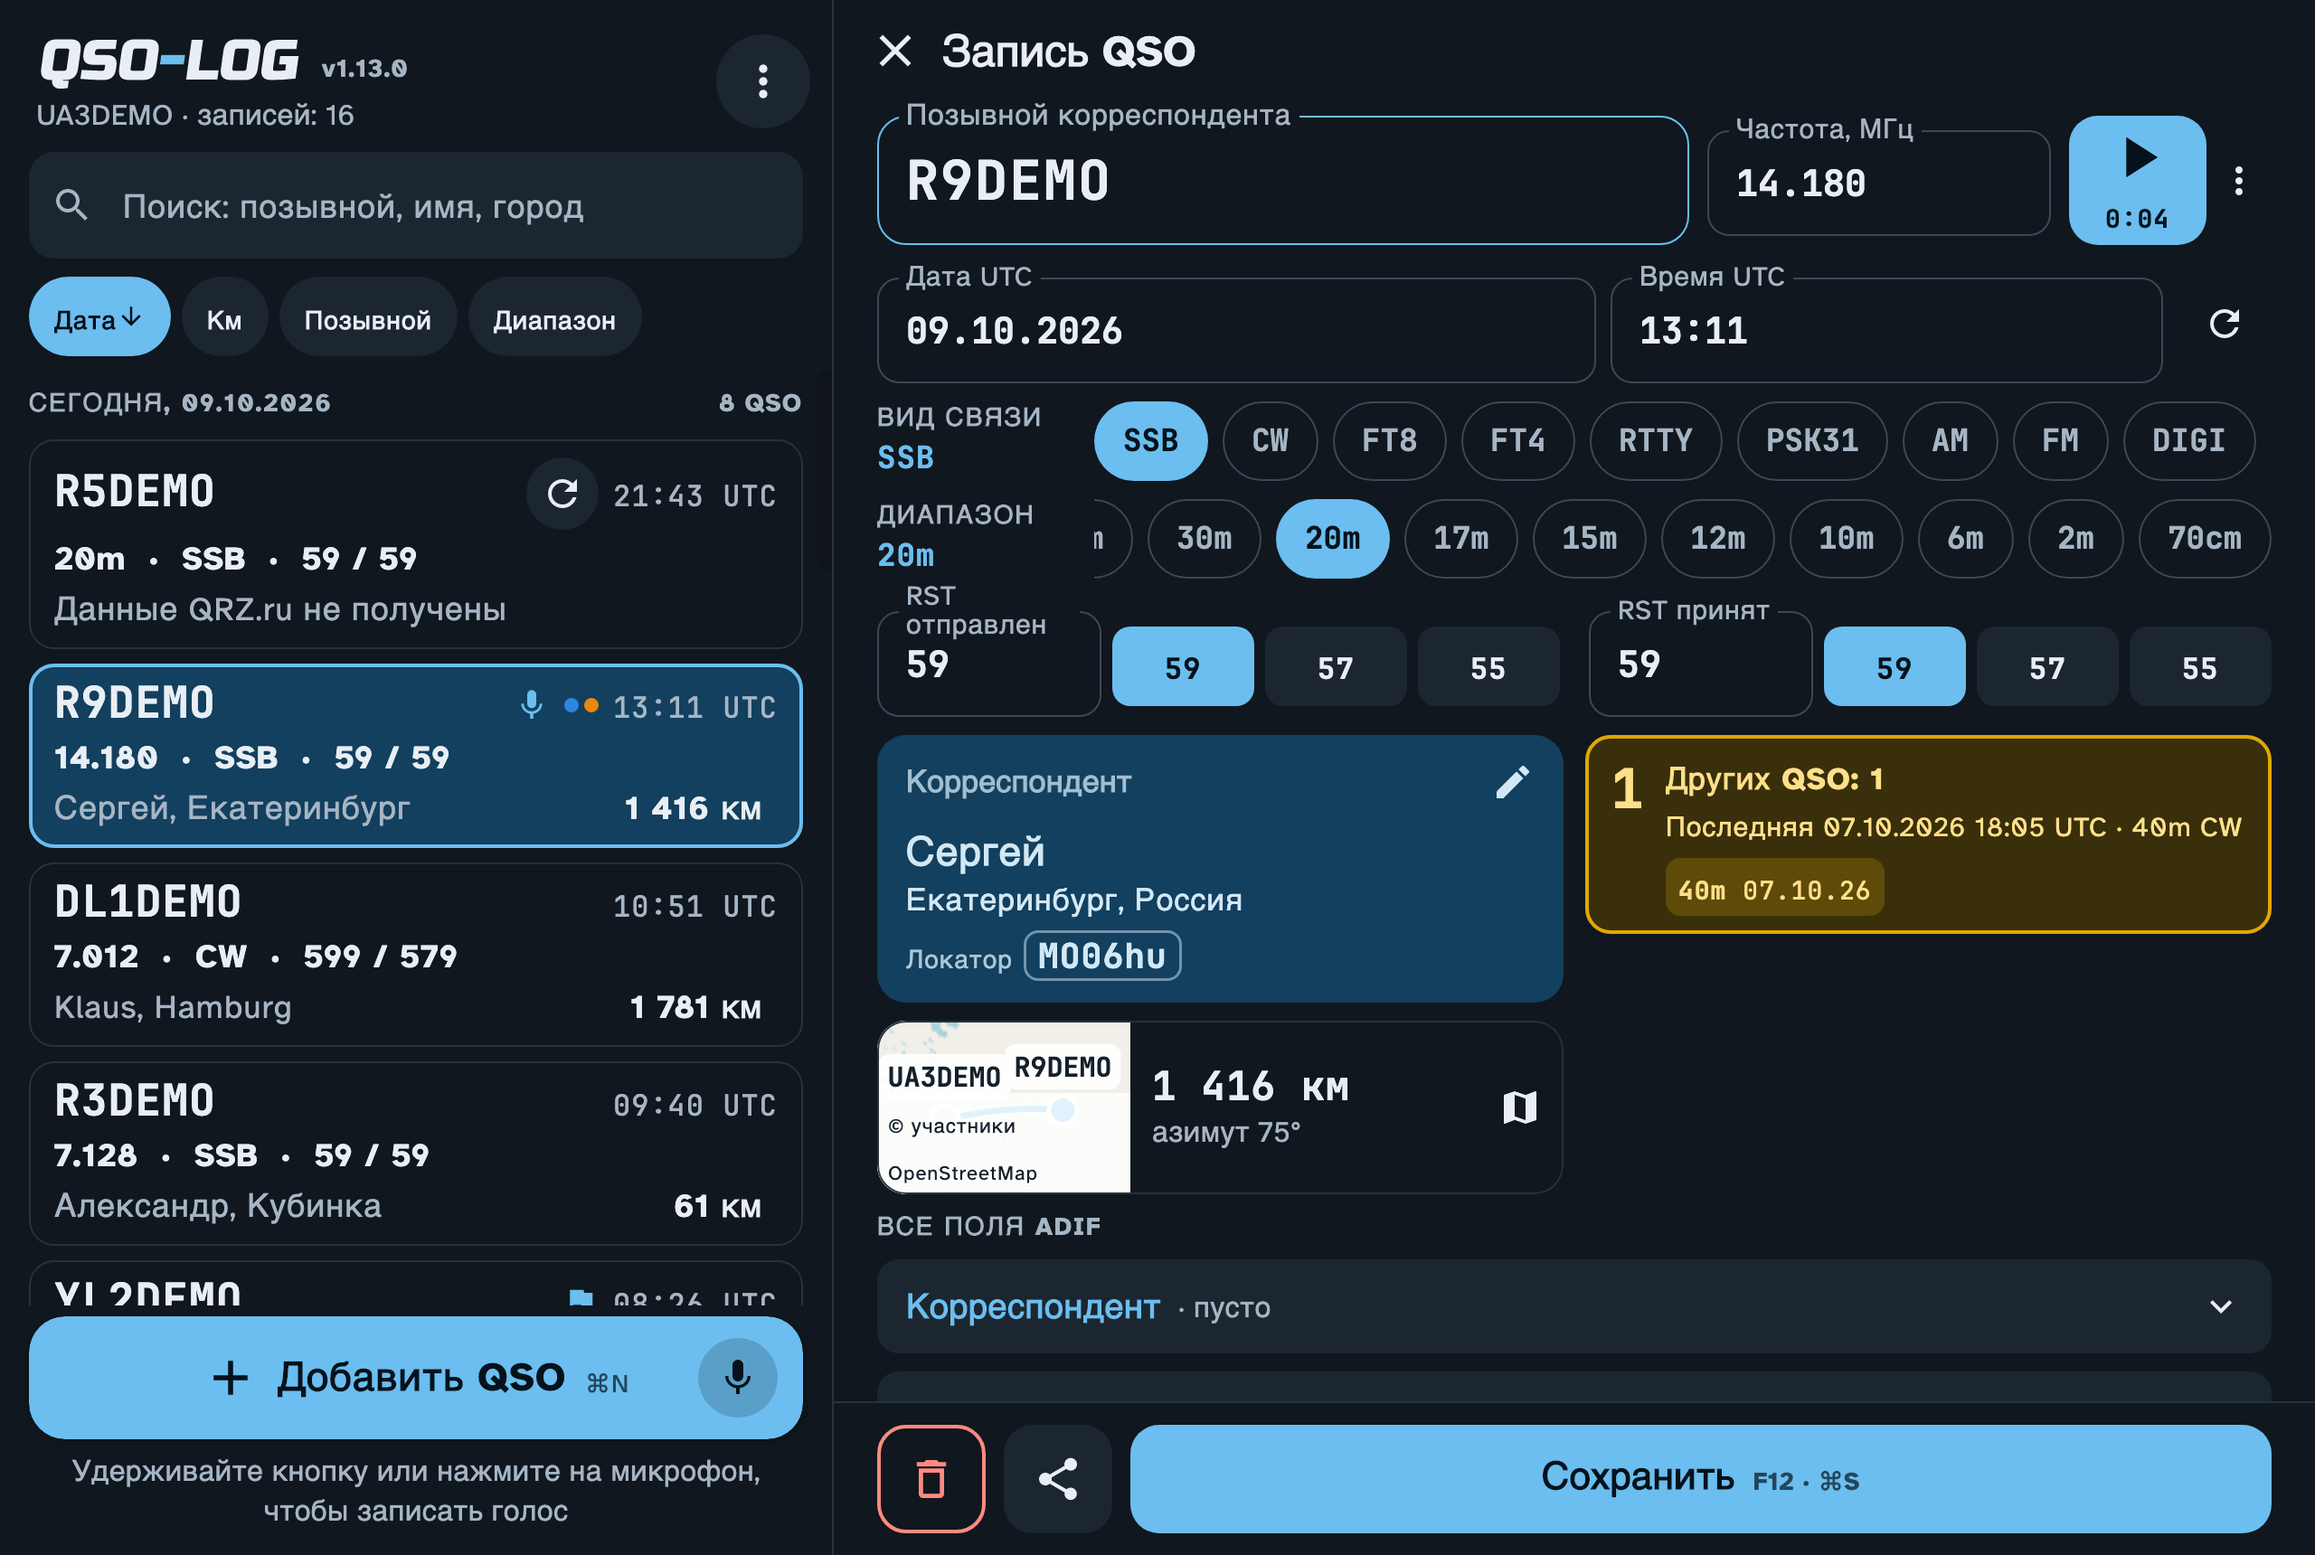
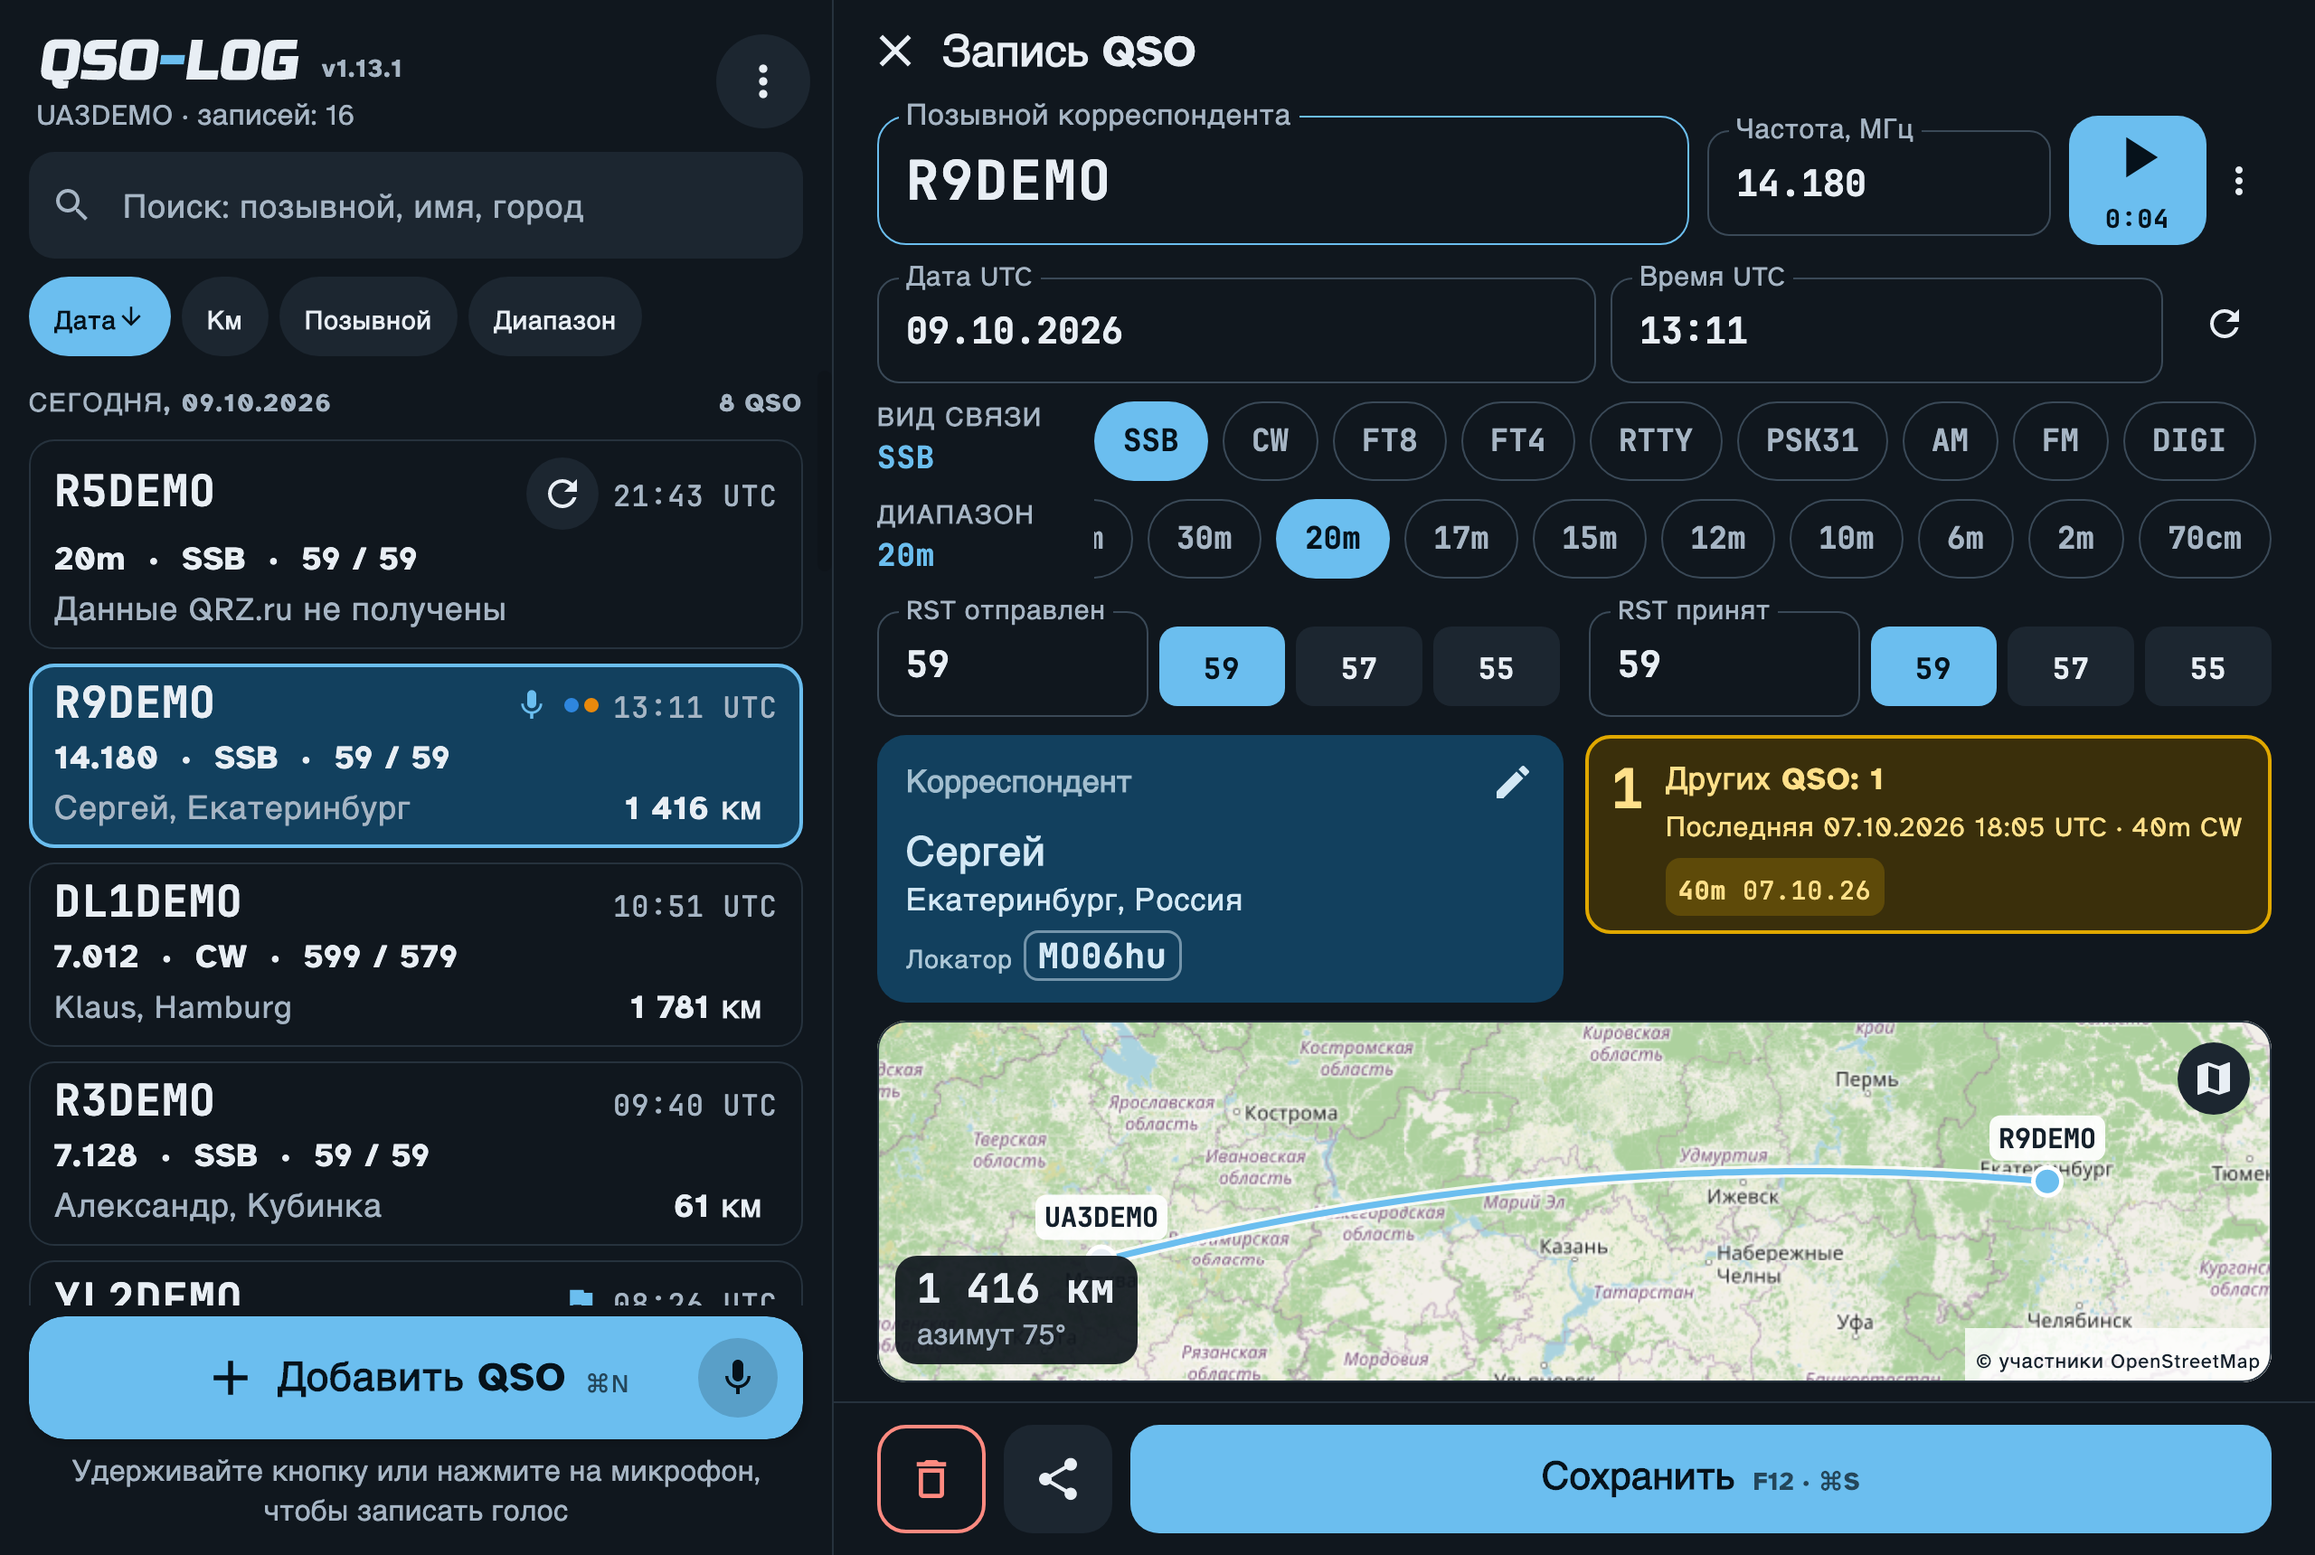
Desktop 1.13.1: full-width map in the QSO card, wider RST fields

diff --git a/desktop/src/main/kotlin/ru/r3xed/qsolog/ui/EditPane.kt b/desktop/src/main/kotlin/ru/r3xed/qsolog/ui/EditPane.kt
@@ -302,11 +302,11 @@ fun EditPane(vm: AppState) {
             val rstKeyboard = if (quick.first().startsWith("-")) KeyboardType.Text else KeyboardType.Number
             Row(horizontalArrangement = Arrangement.spacedBy(16.dp)) {
                 Row(Modifier.weight(1f), horizontalArrangement = Arrangement.spacedBy(6.dp), verticalAlignment = Alignment.Bottom) {
-                    RstField(tr("RST отправлен"), f.rstSent, { vm.update(vm.form.copy(rstSent = it)) }, Modifier.width(124.dp).focusRequester(rstFocus), rstKeyboard, onNext = { rstRcvdFocus.requestFocus() })
+                    RstField(tr("RST отправлен"), f.rstSent, { vm.update(vm.form.copy(rstSent = it)) }, Modifier.width(150.dp).focusRequester(rstFocus), rstKeyboard, onNext = { rstRcvdFocus.requestFocus() })
                     QuickValues(quick, f.rstSent, Modifier.weight(1f).padding(bottom = 6.dp)) { vm.update(vm.form.copy(rstSent = it)) }
                 }
                 Row(Modifier.weight(1f), horizontalArrangement = Arrangement.spacedBy(6.dp), verticalAlignment = Alignment.Bottom) {
-                    RstField(tr("RST принят"), f.rstRcvd, { vm.update(vm.form.copy(rstRcvd = it)) }, Modifier.width(124.dp).focusRequester(rstRcvdFocus).onFocusChanged { rstRcvdFocused = it.isFocused }, rstKeyboard, onNext = null)
+                    RstField(tr("RST принят"), f.rstRcvd, { vm.update(vm.form.copy(rstRcvd = it)) }, Modifier.width(150.dp).focusRequester(rstRcvdFocus).onFocusChanged { rstRcvdFocused = it.isFocused }, rstKeyboard, onNext = null)
                     QuickValues(quick, f.rstRcvd, Modifier.weight(1f).padding(bottom = 6.dp)) { vm.update(vm.form.copy(rstRcvd = it)) }
                 }
             }
@@ -321,10 +321,7 @@ fun EditPane(vm: AppState) {
             // In the narrowest window the two go one under the other.
             BoxWithConstraints {
                 val wide = maxWidth >= 640.dp
-                val left = @Composable {
-                    StationCard(vm)
-                    DistanceCard(vm, onOpenMap = { showMap = true })
-                }
+                val left = @Composable { StationCard(vm) }
                 val right = @Composable {
                     DupeCard(vm)
                     HistoryCard(vm)
@@ -337,6 +334,8 @@ fun EditPane(vm: AppState) {
                     right()
                 }
             }
+            // --- distance & map, the whole width of the card ---
+            DistanceCard(vm, onOpenMap = { showMap = true })
 
             // --- all fields: each group opens on its own, the header says how many fields are filled ---
             Label(tr("Все поля ADIF"))
@@ -611,17 +610,16 @@ private fun DistanceCard(vm: AppState, onOpenMap: () -> Unit) {
         else -> {
             val km = Geo.distanceKm(me, them)
             val az = Geo.bearing(me, them)
-            // Small map on the left, distance and bearing next to it; a click anywhere on the map opens the full one.
-            Row(
-                Modifier.fillMaxWidth().height(IntrinsicSize.Min).clip(RoundedCornerShape(16.dp)).border(1.dp, x.line, RoundedCornerShape(16.dp)),
-                verticalAlignment = Alignment.CenterVertically,
-            ) {
-                Box(Modifier.width(140.dp).height(96.dp)) {
-                    TileMap(me, them, vm.form.myCall.ifBlank { vm.settings.myCall }, vm.form.call, interactive = false, modifier = Modifier.fillMaxSize())
-                    // Transparent layer on top: the preview itself does not scroll, a tap opens the full map.
-                    Box(Modifier.fillMaxSize().clickable(onClickLabel = tr("Карта"), onClick = onOpenMap))
-                }
-                Column(Modifier.weight(1f).padding(horizontal = 12.dp, vertical = 6.dp)) {
+            // The map across the whole card, distance and bearing over its corner; a click anywhere opens the full map.
+            Box(Modifier.fillMaxWidth().height(200.dp).clip(RoundedCornerShape(16.dp)).border(1.dp, x.line, RoundedCornerShape(16.dp))) {
+                TileMap(me, them, vm.form.myCall.ifBlank { vm.settings.myCall }, vm.form.call, interactive = false, modifier = Modifier.fillMaxSize())
+                // Transparent layer on top: the preview itself does not scroll, a tap opens the full map.
+                Box(Modifier.fillMaxSize().clickable(onClickLabel = tr("Карта"), onClick = onOpenMap))
+                Column(
+                    Modifier.align(Alignment.BottomStart).padding(10.dp)
+                        .background(MaterialTheme.colorScheme.surface.copy(alpha = 0.92f), RoundedCornerShape(12.dp))
+                        .padding(horizontal = 12.dp, vertical = 6.dp),
+                ) {
                     val approx = vm.form.approxPosition
                     Text((if (approx) "≈ " else "") + formatKm(km), fontFamily = Mono, fontWeight = FontWeight.Bold, fontSize = 22.sp)
                     Text(
@@ -629,7 +627,9 @@ private fun DistanceCard(vm: AppState, onOpenMap: () -> Unit) {
                         style = MaterialTheme.typography.bodyMedium, color = x.muted,
                     )
                 }
-                IconButton(onClick = onOpenMap) { Icon(Icons.Filled.Map, tr("Карта")) }
+                FilledTonalIconButton(onClick = onOpenMap, modifier = Modifier.align(Alignment.TopEnd).padding(8.dp)) {
+                    Icon(Icons.Filled.Map, tr("Карта"))
+                }
             }
         }
     }
